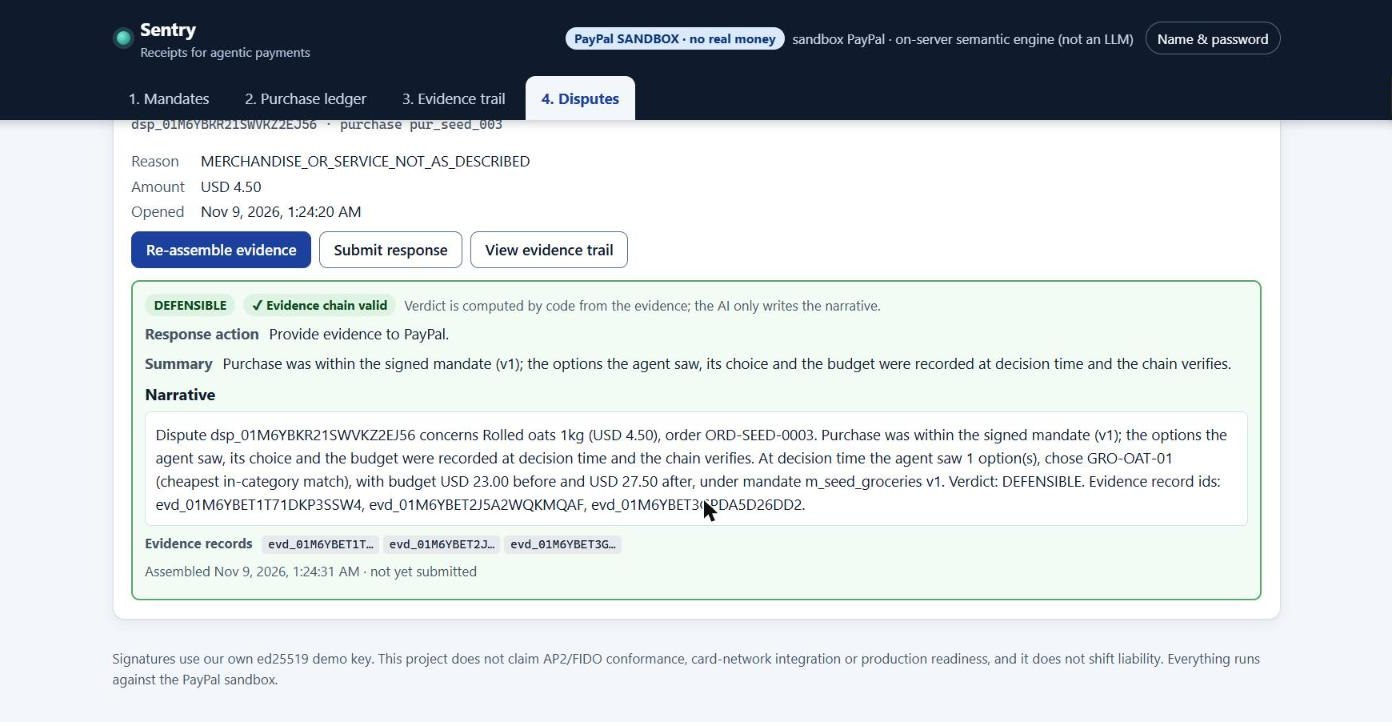
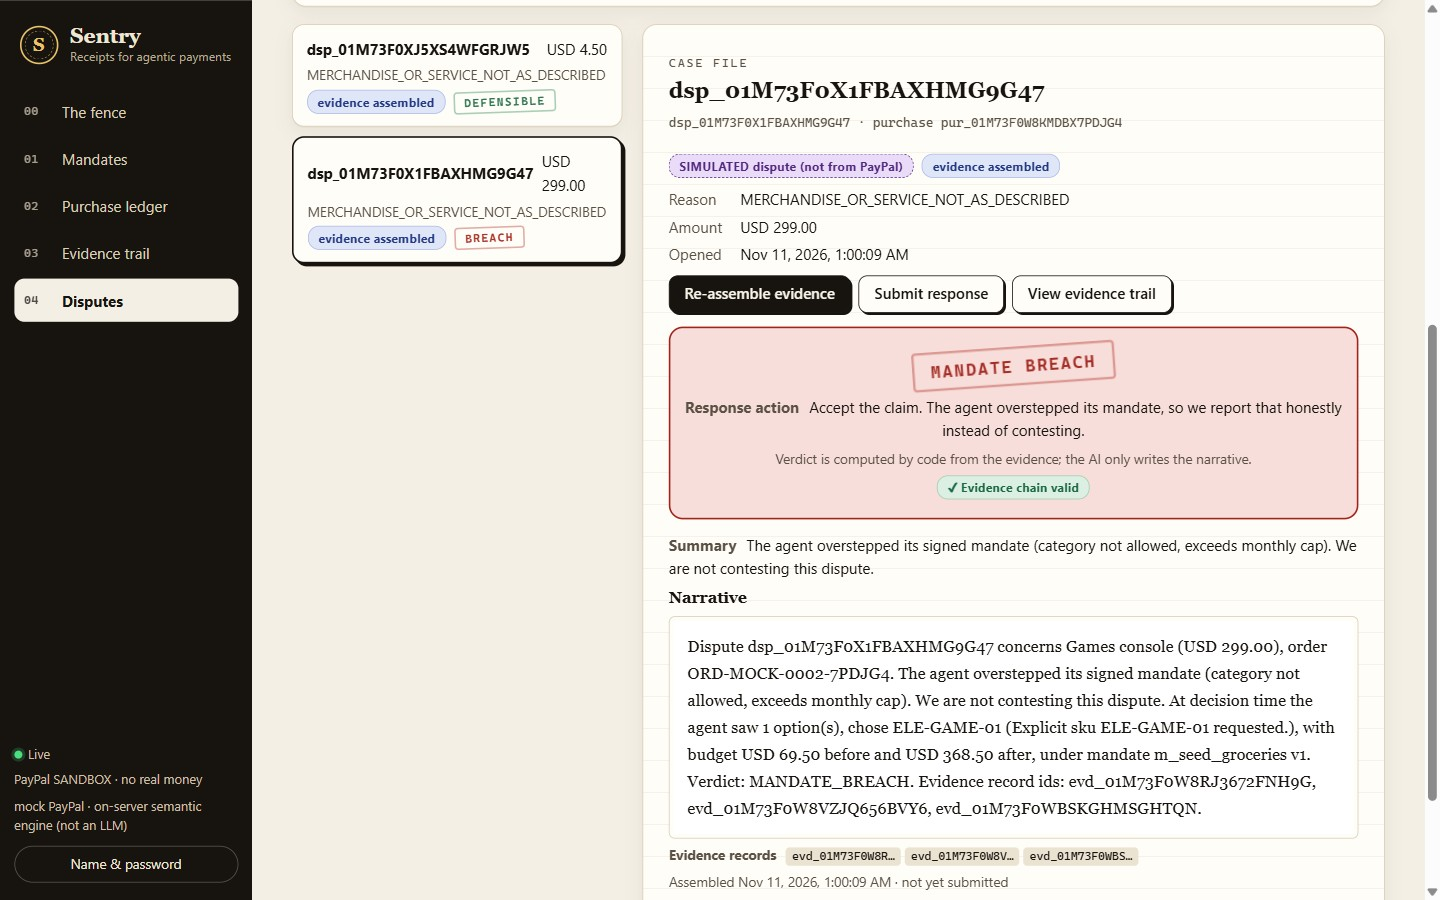
Docs: retake console screenshots on the new UI and add the fence view to the README

diff --git a/README.md b/README.md
@@ -430,31 +430,37 @@ The repository includes [`render.yaml`](render.yaml) (Node 24, build `npm instal
 
 ## 🖥 The console
 
-Four views, in the order you would use them. They are served at `/` and talk to the API.
+Five views, in the order you would use them. They are served at `/#console` and talk to the API.
+
+### 0. The fence
+
+The home view. Your mandate is drawn as a space: the green ring is the monthly cap, the dashed ring is the approval line, and the hatched band is outside the mandate. Every purchase is a dot, and a breach is red. A list with the same data sits below the map.
+
+<p align="center"><img src="docs/media/console-fence.jpg" alt="The fence view: a map with a cap ring, a dashed approval ring and a hatched outside band. Four green dots sit inside the rings and one red dot sits in the hatched band. Stat tiles show spent, purchases, waiting for approval and outside the mandate." width="90%" /></p>
 
 ### 1. Mandates
 
 Create a mandate, edit its limits (each edit saves a new signed version), revoke it, browse the version history, and verify the signature.
 
-<p align="center"><img src="docs/media/console-mandates.jpg" alt="The Mandates view showing the mandate Groceries, $200/month with its monthly cap, category, approval threshold, a spend bar and the signature note." width="90%" /></p>
+<p align="center"><img src="docs/media/console-mandates.jpg" alt="The Mandates view: the mandate Groceries, $200/month as a document with three clauses (cap, categories, approval line), a spend bar, and a SIGNATURE VERIFIED seal after Verify signature." width="90%" /></p>
 
 ### 2. Purchase ledger
 
 Ask the agent in plain English, pick the mandate, and optionally tick the clearly labelled demo switch. Purchases above the approval threshold wait in the **Approval queue**, and the ledger below updates live over server-sent events.
 
-<p align="center"><img src="docs/media/console-ask-agent.jpg" alt="The Ask the agent form with the on-server engine note, a mandate picker, an instruction field, the purple demo checkbox, and the result 'Order created for Pantry basics bundle (USD 42.00)'." width="90%" /></p>
+<p align="center"><img src="docs/media/console-ask-agent.jpg" alt="The Purchase ledger view with the Ask the agent form: the on-server engine note, a mandate picker, an instruction field, the purple demo checkbox, and the result 'Order created for Pantry basics bundle (USD 42.00)'." width="90%" /></p>
 
 ### 3. Evidence trail
 
-For one purchase: the instruction, every option the agent saw with its price, the choice, and a chain-valid badge. **Verify whole chain** checks every record.
+For one purchase: the instruction, every option the agent saw with its price, the choice, and a chain-valid notice. **Verify whole chain** checks every record.
 
-<p align="center"><img src="docs/media/console-evidence.jpg" alt="The Evidence trail for the Games console purchase: the instruction 'buy sku ELE-GAME-01', the option the agent saw, the 'Outside mandate' and demo badges, and a valid-chain badge." width="90%" /></p>
+<p align="center"><img src="docs/media/console-evidence.jpg" alt="The Evidence trail for the Games console purchase: a chain-valid notice after Verify whole chain, the first record with the instruction 'buy sku ELE-GAME-01', the option the agent saw, and the 'Outside mandate' and demo stamps." width="90%" /></p>
 
 ### 4. Disputes
 
-Sync disputes from the PayPal sandbox, or create a labelled simulated dispute, then assemble the evidence packet and submit it.
+Sync disputes from the PayPal sandbox, or create a labelled simulated dispute, then assemble the evidence packet and submit it. The case list on the left shows every dispute with its verdict.
 
-<p align="center"><img src="docs/media/console-disputes.jpg" alt="A simulated dispute on Rolled oats 1kg with the assembled response: verdict DEFENSIBLE, chain valid, action 'Provide evidence to PayPal', and a narrative citing the evidence record ids." width="90%" /></p>
+<p align="center"><img src="docs/media/console-disputes.jpg" alt="A case file for a simulated dispute on the Games console: the verdict stamp MANDATE BREACH, chain valid, the action 'Accept the claim', and a narrative citing the evidence record ids. The case list on the left also shows a DEFENSIBLE dispute." width="90%" /></p>
 
 Accessibility basics are built in: real buttons and form labels, a tab list for navigation, and text status badges rather than colour alone.
 

diff --git a/CONTEXT.md b/CONTEXT.md
@@ -23,7 +23,7 @@ To restart an agent: `hc run --bg --name <n> --cwd <repo> claude|codex`, then `h
   left-rail `Shell.tsx`, new `FenceView.tsx` (SVG map: cap ring, approval ring, hatched outside band, one dot per purchase), mandates as signed documents,
   ledger as receipts with a Table (AG Grid, themed) toggle, evidence as a chain that turns green on verify, disputes as case list + dossier with verdict stamp.
   `TabId` gained `"fence"` (default tab). The landing page (`Landing.tsx`, `landing.css`) was rebuilt in the same style: hero is a live fence with cap/threshold/price sliders and a verdict stamp; story as stamped paper cards; walkthrough, product cards and honesty section restyled. No data logic changed. Checked by screenshots at 1440 px and 390 px; `npm test` 36 pass, `npm run test:e2e` 4 pass, 1 skipped.
-- **Demo video re-filmed (2026-11-11, uncommitted):** `demo/sentry-demo-3min.mp4` is 170.6 s = animated intro (`demo/cut/intro.html` + `intro.json`, 24 s: agent shops, charge disputed, Sentry fix) + part A (66.8 s, `part-a.json`) + part B (79.4 s, `part-b.json`), joined with ffmpeg. New UI, Edge neural voice "Andrew", captions off. Recorded on mock PayPal + engine; `demo/approve-orders.mjs` runs between A and B; reset the seeded DB before each record. Narration in playback order: `demo/cut/narration.txt`. Subtitles are ON (burned in; `captions: true` in the three scenarios, re-rendered with `agent-screenplay render`, no re-filming). README now has a "problem and the fix" section and seven new-UI GIFs in `docs/media/` (`story-problem`, `story-solution`, `ui-*.gif`, cut from the caption-free recordings, 0.2 to 1.1 MB each); old `action-*.gif` deleted. Not yet listened to by a human. Still stale in README: the four `docs/media/console-*.jpg` screenshots in "The console".
+- **Demo video re-filmed (2026-11-11, uncommitted):** `demo/sentry-demo-3min.mp4` is 170.6 s = animated intro (`demo/cut/intro.html` + `intro.json`, 24 s: agent shops, charge disputed, Sentry fix) + part A (66.8 s, `part-a.json`) + part B (79.4 s, `part-b.json`), joined with ffmpeg. New UI, Edge neural voice "Andrew", captions off. Recorded on mock PayPal + engine; `demo/approve-orders.mjs` runs between A and B; reset the seeded DB before each record. Narration in playback order: `demo/cut/narration.txt`. Subtitles are ON (burned in; `captions: true` in the three scenarios, re-rendered with `agent-screenplay render`, no re-filming). README now has a "problem and the fix" section and seven new-UI GIFs in `docs/media/` (`story-problem`, `story-solution`, `ui-*.gif`, cut from the caption-free recordings, 0.2 to 1.1 MB each); old `action-*.gif` deleted. Not yet listened to by a human. The five `docs/media/console-*.jpg` screenshots (fence, mandates, ask-agent, evidence, disputes) were retaken on the new UI (2026-11-11).
 - **Earlier demo voice change:** `demo/sentry-demo-3min.mp4` now has an Edge neural voice ("Andrew") mixed over the old picture (commit 8b2351f, pushed). Captions are still burned into that picture.
 - **Backend** (`src/server`): signed + versioned mandates (ed25519), deterministic checker, gate (only place that mints PayPal
   tickets), hash-chained evidence (tamper detected), approvals, rogue demo, disputes (verdict by code), webhooks (signature
